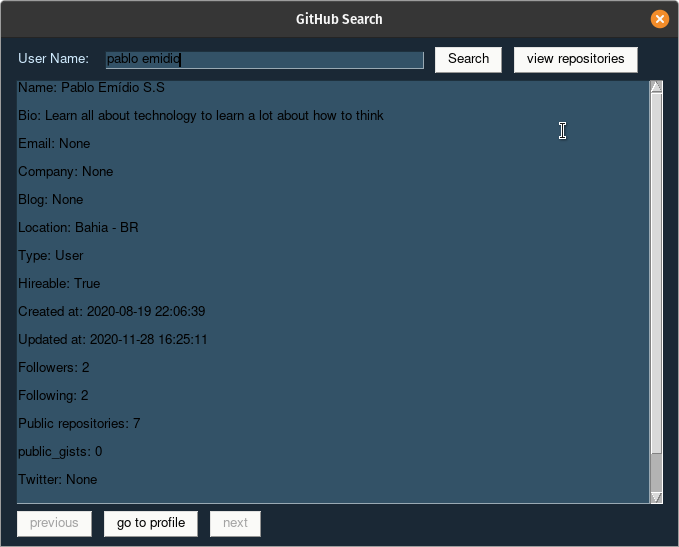
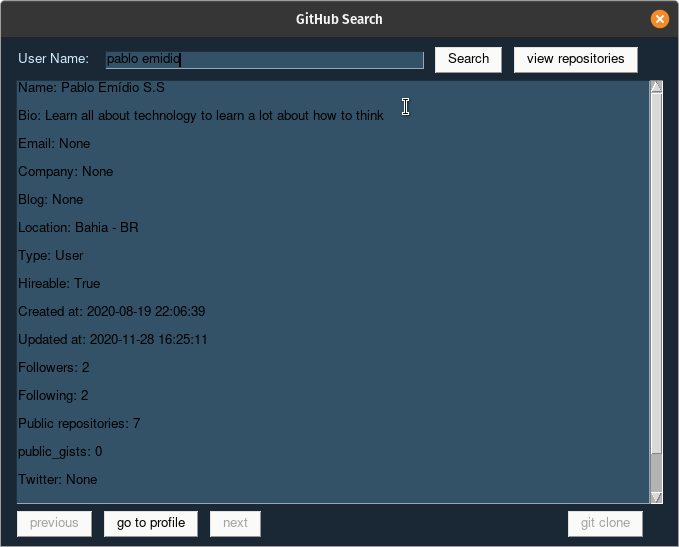
updates, features and bugs fixed

Changed region(s): [[0.8351, 0.9324, 0.9588, 0.9945], [0.8041, 0.2176, 0.8351, 0.2486], [0.5876, 0.1865, 0.6186, 0.2176]]

diff --git a/main.py b/main.py
@@ -1,6 +1,6 @@
 import PySimpleGUI as sg
 from logical import UseGitHubAPI
-import webbrowser
+import webbrowser, os
 
 use = UseGitHubAPI()
 
@@ -12,12 +12,14 @@ layout = [
         sg.B('view repositories', key='repositories', disabled=True)
     ],
     [
-        sg.Multiline(key='print_info', size=(90, 30), text_color='Black'),
+        sg.Multiline(key='print_info', size=(90, 30), text_color='Black', disabled=True),
     ],
     [
         sg.B('previous', key='previous', disabled=True),
         sg.B('go to profile', key='go', disabled=True),  
-        sg.B('next', key='next', disabled=True)
+        sg.B('next', key='next', disabled=True),
+        sg.B('git clone', key='clone', disabled=True, pad=(('300', '3'), (None)))
+
     ]]
 
 window = sg.Window('GitHub Search', layout)
@@ -35,6 +37,8 @@ while True:
         window['repositories'].update(disabled=False)
         window['previous'].update(disabled=True)
         window['next'].update(disabled=True)
+        window['clone'].update(disabled=True)
+
     
     if event == 'go':
         try:
@@ -44,35 +48,39 @@ while True:
             ...
             
     if event == 'repositories':
-        repositorieNow = 0
-        window['print_info'].update(use.returnRepositorieInfo(repositorieNow))
+        repositoryNow = 0
+        window['print_info'].update(use.returnRepositoryInfo(repositoryNow))
         window['previous'].update(disabled=False)
         window['next'].update(disabled=False)
+        window['clone'].update(disabled=False)
+
         
         
     if event == 'next':
-        repositorieNow +=1
-        print(f'in this next is {repositorieNow}')
-        isrepositorie = use.returnRepositorieInfo(repositorieNow)
-        if type(isrepositorie) == str:
-            window['print_info'].update(isrepositorie)
+        repositoryNow +=1
+        isrepository = use.returnRepositoryInfo(repositoryNow)
+        if type(isrepository) == str:
+            window['print_info'].update(isrepository)
         else:
-            repositorieNow -=1
-            print(f'gave wong in this next: {repositorieNow}')
+            repositoryNow -=1
     
     if event == 'previous':
-        repositorieNow -=1
-        print(f'in this previus is {repositorieNow}')
-        if repositorieNow>0:
-            isrepositorie = use.returnRepositorieInfo(repositorieNow)
-            if type(isrepositorie) == str:
-                window['print_info'].update(isrepositorie)
+        repositoryNow -=1
+        if repositoryNow>=0:
+            isrepository = use.returnRepositoryInfo(repositoryNow)
+            if type(isrepository) == str:
+                window['print_info'].update(isrepository)
             else:
-                repositorieNow +=1
-                print(f'gave wong in this next: {repositorieNow}')
-
+                repositoryNow +=1
         else:
-            repositorieNow +=1
-            print(f'gave wong in this next: {repositorieNow}')
+            repositoryNow +=1
 
-
+    if event == 'clone':
+        clone_url = use.returnCloneLink()
+        try:
+            os.system(f'cd ~/ && git clone {clone_url}')
+            sg.popup('Repository was cloned with success')
+        except:
+            sg.popup('Process gave wrong\nCheck if you have git installed on your computer')
+         
+window.close()

diff --git a/logical.py b/logical.py
@@ -64,12 +64,12 @@ class UseGitHubAPI:
         except:
             return False
             
-    def _selectRepositorieFields(self, info, pos=0):
+    def _selectRepositoryFields(self, info, pos=0):
         if pos>len(info)-1:
             return False
         else:    
             info = info[pos]
-            self._selectedRepositorieFields = {
+            self._selectedRepositoryFields = {
                 'Name': info['name'],
                 'Description': info['description'],
                 'Language': info['language'],
@@ -87,13 +87,16 @@ class UseGitHubAPI:
             return True
         
 
-    def returnRepositorieInfo(self, pos):
+    def returnRepositoryInfo(self, pos):
         try:
-            if self._takeRepositoriesInfo() and self._selectRepositorieFields(info=self._takenRepositoriesJson, pos=pos):
-                self.readable = self.turnReadable(self._selectedRepositorieFields)
+            if self._takeRepositoriesInfo() and self._selectRepositoryFields(info=self._takenRepositoriesJson, pos=pos):
+                self.readable = self.turnReadable(self._selectedRepositoryFields)
                 return self.readable
             else:
                 return False
         except:
             return False
+    
+    def returnCloneLink(self):
+        return self._selectedRepositoryFields['Clone url']
 
